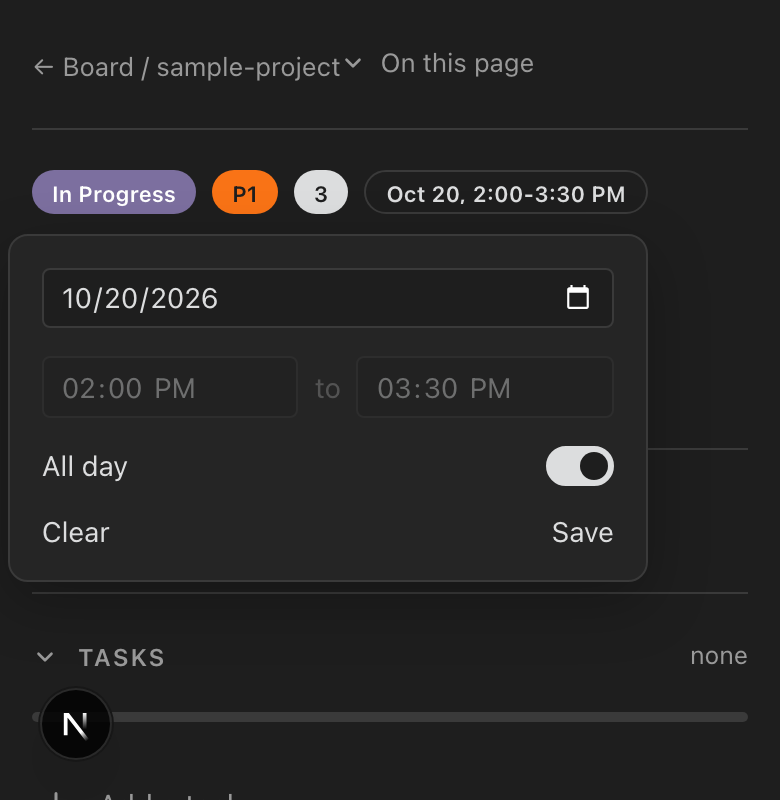
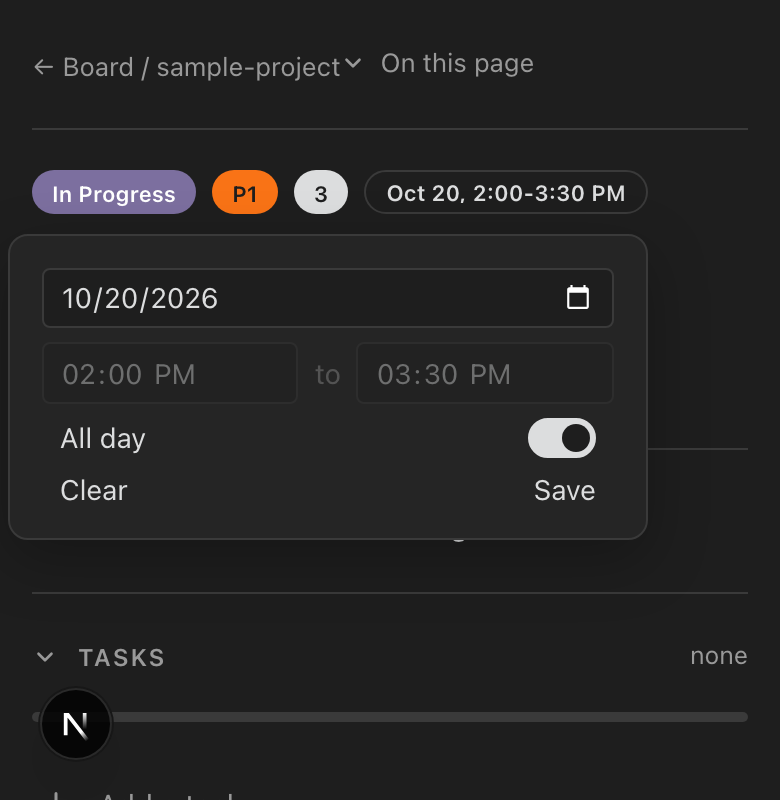
Tighten schedule editor rows and center date text
- Halve the gap between editor rows to 7px.
- Inset the All day and footer rows so All day and Clear line up with
  the text inside the fields, and the switch and Save match on the
  right.
- Lift the date pill text half a pixel so it reads centered.

Claude-Session: https://claude.ai/code/session_0135wKF4CmjR2z1tJnn1z4qM

diff --git a/src/app/globals.css b/src/app/globals.css
@@ -118,7 +118,8 @@ select {
   border: 1px solid var(--color-obsidian-border);
   max-width: 100%;
 }
-.chip-date > span { overflow: hidden; text-overflow: ellipsis; }
+/* Half-pixel lift: numeral-heavy text in an outlined pill reads low when metrically centered. */
+.chip-date > span { overflow: hidden; text-overflow: ellipsis; transform: translateY(-0.5px); }
 
 /* All-day switch: text/bg token pair so it reads in any theme. */
 .schedule-switch {
@@ -361,7 +362,9 @@ select {
   display: flex; flex-direction: column; gap: 3px; min-width: 160px;
 }
 /* Schedule editor: anchored to the chip's right edge, one even gap between rows. */
-.card-popover.schedule-editor { left: auto; right: 0; width: 320px; max-width: calc(100vw - 32px); padding: 16px; gap: 14px; }
+.card-popover.schedule-editor { left: auto; right: 0; width: 320px; max-width: calc(100vw - 32px); padding: 16px; gap: 7px; }
+/* Label and footer rows inset to the fields' text: 1px border + 8px input padding. */
+.schedule-editor .schedule-row { padding: 0 9px; }
 .card-pop-item {
   display: flex; align-items: center; gap: 9px; background: none; border: none; cursor: pointer;
   padding: 6px 8px; border-radius: 7px; text-align: left; font-size: 13px;

diff --git a/src/components/card/ScheduleChip.tsx b/src/components/card/ScheduleChip.tsx
@@ -104,7 +104,7 @@ function ScheduleForm({ value, onSubmit }: { value: string | null; onSubmit: (v:
         <span className="text-obsidian-muted text-sm">to</span>
         <input type="time" aria-label="End time" className={`${inputClass} flex-1 min-w-0`} value={end} onChange={(e) => setEnd(e.target.value)} />
       </fieldset>
-      <label className="flex items-center justify-between gap-3 text-sm text-obsidian-text cursor-pointer">
+      <label className="schedule-row flex items-center justify-between gap-3 text-sm text-obsidian-text cursor-pointer">
         All day
         <button
           type="button"
@@ -117,7 +117,7 @@ function ScheduleForm({ value, onSubmit }: { value: string | null; onSubmit: (v:
         </button>
       </label>
       {!isTimeValid && <p className="text-xs text-obsidian-text">End must be after the start time.</p>}
-      <div className="flex justify-between gap-2">
+      <div className="schedule-row flex justify-between gap-2">
         {value ? (
           <button type="button" className="card-pop-item schedule-action" onClick={() => onSubmit(null)}>
             Clear
